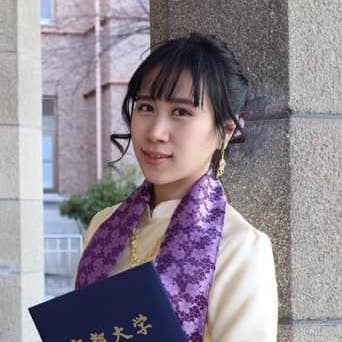
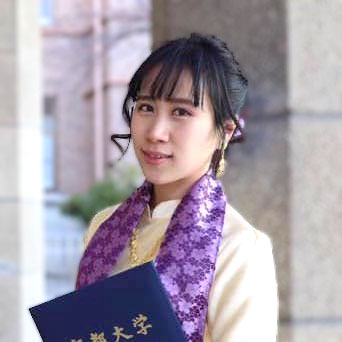
Embedded every member's pictures without permission

diff --git a/html/index.html b/html/index.html
@@ -270,7 +270,7 @@
            <div class="col s12 m3">
                 <div class="card card-avatar">
                     <div class="waves-effect waves-block waves-light">
-                        <img class="activator" src="img/avatar2.png">
+                        <img class="activator" src="img/motozawa2.jpg">
                     </div>
                     <div class="card-content">
                         <span class="card-title activator grey-text text-darken-4">元澤 海月<br/>
@@ -311,7 +311,7 @@
 			<div class="col s12 m3">
                 <div class="card card-avatar">
                     <div class="waves-effect waves-block waves-light">
-                        <a href="#"><img class="activator" src="img/avatar3.png"></a>
+                        <a href="#"><img class="activator" src="img/nishimura2.jpg"></a>
                     </div>
                     <div class="card-content">
                         <span class="card-title activator grey-text text-darken-4">西村 一球<br/>
@@ -323,7 +323,7 @@
 			<div class="col s12 m3">
                 <div class="card card-avatar">
                     <div class="waves-effect waves-block waves-light">
-                        <a href="#"><img class="activator" src="img/avatar1.png"></a>
+                        <a href="#"><img class="activator" src="img/yoshimura.jpg"></a>
                     </div>
                     <div class="card-content">
                         <span class="card-title activator grey-text text-darken-4">	吉村 佑久<br/>
@@ -335,7 +335,7 @@
 				<div class="col s12 m3">
                 <div class="card card-avatar">
                     <div class="waves-effect waves-block waves-light">
-                        <a href="#"><img class="activator" src="img/avatar4.png"></a>
+                        <a href="#"><img class="activator" src="img/zhang.jpg"></a>
                     </div>
                     <div class="card-content">
                         <span class="card-title activator grey-text text-darken-4">	張 禹王<br/>
@@ -347,7 +347,7 @@
 			<div class="col s12 m3">
                 <div class="card card-avatar">
                     <div class="waves-effect waves-block waves-light">
-                        <a href="#"><img class="activator" src="img/avatar3.png"></a>
+                        <a href="#"><img class="activator" src="img/li.jpg"></a>
                     </div>
                     <div class="card-content">
                         <span class="card-title activator grey-text text-darken-4">	LI CHUANG<br/>
@@ -360,7 +360,7 @@
 			<div class="col s12 m3">
                 <div class="card card-avatar">
                     <div class="waves-effect waves-block waves-light">
-                        <a href="#"><img class="activator" src="img/avatar2.png"></a>
+                        <a href="#"><img class="activator" src="img/miwa2.jpg"></a>
                     </div>
                     <div class="card-content">
                         <span class="card-title activator grey-text text-darken-4">	三輪　花楓<br/>
@@ -373,7 +373,7 @@
 		<div class="col s12 m3">
                 <div class="card card-avatar">
                     <div class="waves-effect waves-block waves-light">
-                        <a href="#"><img class="activator" src="img/sato.jpg"></a>
+                        <a href="#"><img class="activator" src="img/sato3.jpg"></a>
                     </div>
                     <div class="card-content">
                         <span class="card-title activator grey-text text-darken-4">	佐藤 旭<br/>
@@ -386,7 +386,7 @@
 			<div class="col s12 m3">
                 <div class="card card-avatar">
                     <div class="waves-effect waves-block waves-light">
-                        <a href="#"><img class="activator" src="img/avatar4.png"></a>
+                        <a href="#"><img class="activator" src="img/ye.jpg"></a>
                     </div>
                     <div class="card-content">
                         <span class="card-title activator grey-text text-darken-4">	叶　峰<br/>
@@ -410,7 +410,7 @@
 				<div class="col s12 m3">
                 <div class="card card-avatar">
                     <div class="waves-effect waves-block waves-light">
-                        <a href="#"><img class="activator" src="img/avatar1.png"></a>
+                        <a href="#"><img class="activator" src="img/matsubara.jpg"></a>
                     </div>
                     <div class="card-content">
                         <span class="card-title activator grey-text text-darken-4">	松原 駿樹<br/>
@@ -422,7 +422,7 @@
 				<div class="col s12 m3">
                 <div class="card card-avatar">
                     <div class="waves-effect waves-block waves-light">
-                        <a href="#"><img class="activator" src="img/avatar3.png"></a>
+                        <a href="#"><img class="activator" src="img/matsuoka.jpg"></a>
                     </div>
                     <div class="card-content">
                         <span class="card-title activator grey-text text-darken-4">	松岡勇樹<br/>
@@ -434,7 +434,7 @@
 		<div class="col s12 m3">
                 <div class="card card-avatar">
                     <div class="waves-effect waves-block waves-light">
-                        <a href="#"><img class="activator" src="img/avatar4.png"></a>
+                        <a href="#"><img class="activator" src="img/masuda.jpg"></a>
                     </div>
                     <div class="card-content">
                         <span class="card-title activator grey-text text-darken-4"> 舛田晃一<br/>
